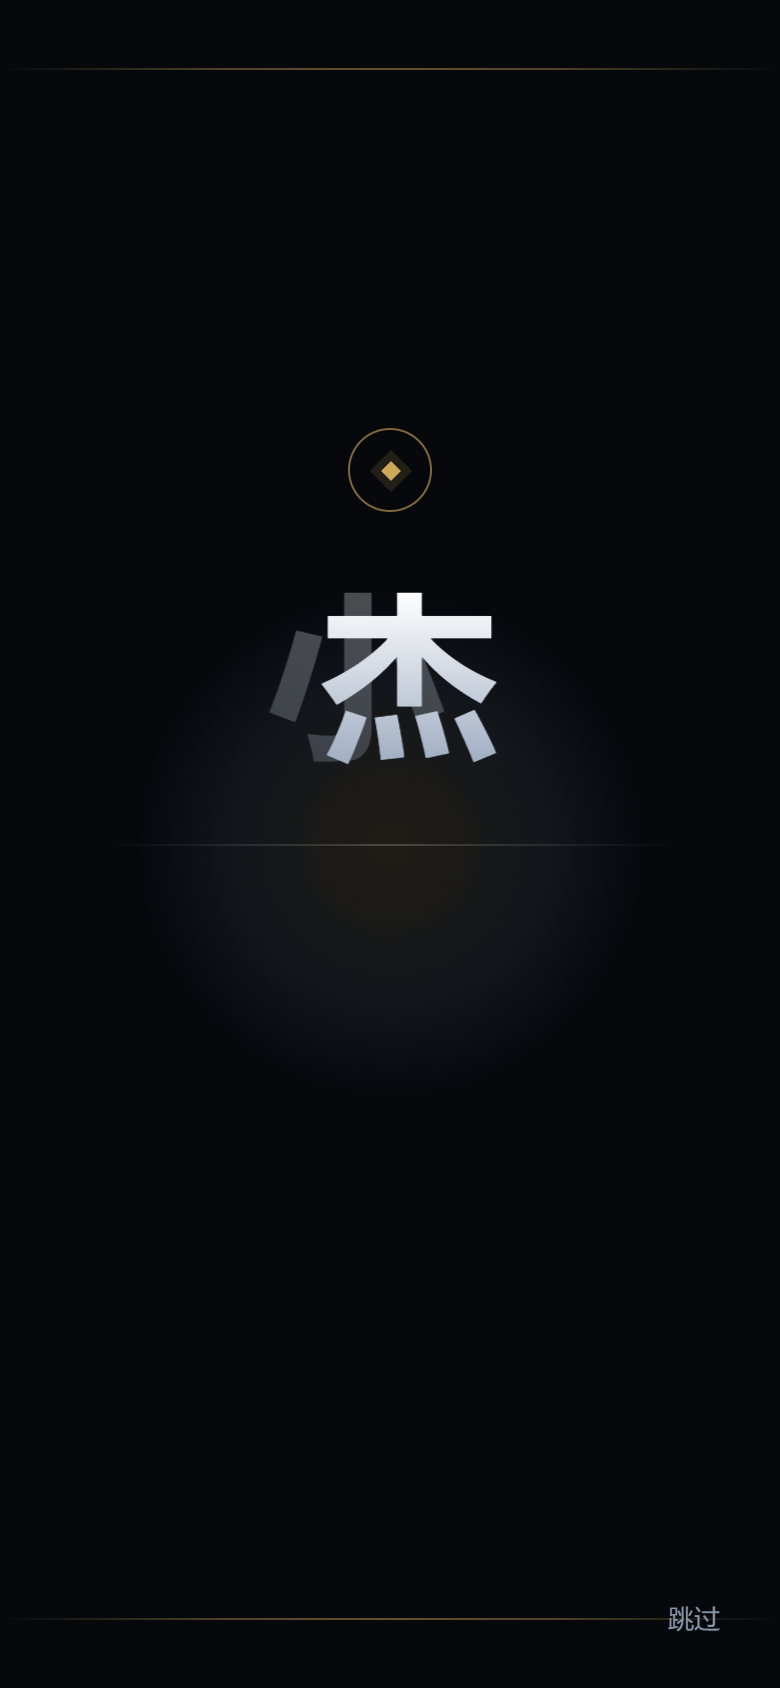
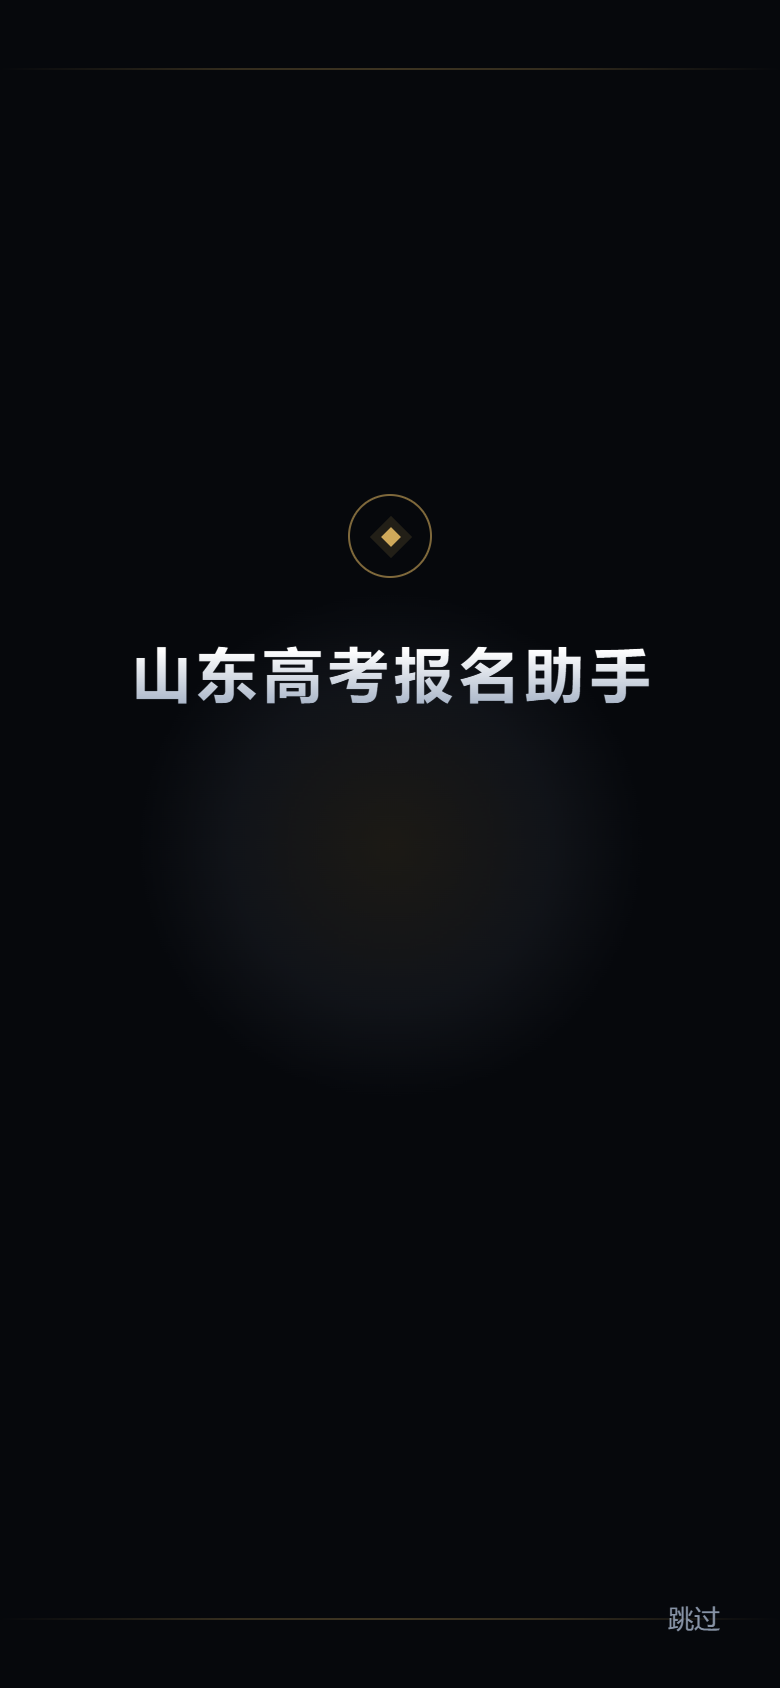
开场动画 V6（低调权威版）：撤下大字「小杰」与模糊聚焦/扫光等张扬元素，改为主标题=山东高考报名助手 + 副标题=「小杰 · 技术支持」小字署名；克制的级联节奏（约 2.7s），全程纯 transform/opacity；E2E 47/47

Changed region(s): [[0.1538, 0.2464, 0.8308, 0.4621]]

diff --git a/index.html b/index.html
@@ -311,20 +311,17 @@ footer a{color:var(--blue);text-decoration:none}
 body.xj-lock{overflow:hidden}
 .xj-stage{position:relative;width:100%;height:100%;display:grid;place-items:center;padding-top:env(safe-area-inset-top,0px);padding-bottom:env(safe-area-inset-bottom,0px)}
 .xj-glow{position:absolute;left:50%;top:50%;width:90vmin;height:90vmin;margin:-45vmin 0 0 -45vmin;border-radius:50%;background:radial-gradient(closest-side,rgba(207,169,90,.13),rgba(148,158,178,.09) 45%,rgba(148,158,178,0) 72%);opacity:0;will-change:opacity;pointer-events:none}
-.xj-light{position:absolute;left:50%;top:50%;width:min(74vw,470px);height:1px;margin-left:calc(min(74vw,470px) / -2);background:linear-gradient(90deg,transparent,rgba(255,255,255,.85),transparent);opacity:0;will-change:transform,opacity;pointer-events:none}
-/* V3：权威元素 —— 金印徽记 / 上下鎏金界线 / 标题扫光 */
+/* V3：权威元素 —— 金印徽记 / 上下鎏金界线 */
 .xj-crest{width:42px;height:42px;margin-bottom:30px;border:1px solid rgba(207,169,90,.6);border-radius:50%;display:grid;place-items:center;opacity:0;will-change:transform,opacity;pointer-events:none}
 .xj-crest i{display:block;width:7px;height:7px;background:var(--xj-gold);transform:rotate(45deg);box-shadow:0 0 0 4px rgba(207,169,90,.14)}
 .xj-beam{position:absolute;left:0;right:0;height:1px;background:linear-gradient(90deg,transparent,rgba(207,169,90,.75) 30%,rgba(207,169,90,.9) 50%,rgba(207,169,90,.75) 70%,transparent);transform:scaleX(0);opacity:0;will-change:transform,opacity;pointer-events:none}
 .xj-beam.t{top:calc(env(safe-area-inset-top,0px) + 34px)}
 .xj-beam.b{bottom:calc(env(safe-area-inset-bottom,0px) + 34px)}
 .xj-lockup{position:relative;display:flex;flex-direction:column;align-items:center;padding:0 20px;max-width:100vw}
-.xj-title{position:relative;display:flex;font-size:clamp(72px,23vw,150px);font-weight:800;line-height:1.08;letter-spacing:.08em;margin:0}
-.xj-g{display:block;opacity:0;color:transparent;background:linear-gradient(180deg,#fff 10%,#9fadc2 100%);-webkit-background-clip:text;background-clip:text;will-change:transform,opacity,filter}
-.xj-sheen{position:absolute;inset:0;overflow:hidden;pointer-events:none}
-.xj-bar{position:absolute;top:-10%;bottom:-10%;left:0;width:34%;opacity:0;background:linear-gradient(100deg,transparent,rgba(255,255,255,.9),transparent);mix-blend-mode:overlay;will-change:transform,opacity}
+.xj-title{position:relative;display:flex;justify-content:center;font-size:clamp(26px,7.5vw,60px);font-weight:800;line-height:1.25;letter-spacing:.12em;margin:0;opacity:0;will-change:transform,opacity}
+.xj-title span{color:transparent;background:linear-gradient(180deg,#fff 18%,#9fadc2 100%);-webkit-background-clip:text;background-clip:text;margin-right:-.12em}
 .xj-rule{width:min(42vw,190px);height:1px;margin:26px 0 22px;background:linear-gradient(90deg,transparent,var(--xj-gold),transparent);transform:scaleX(0);opacity:0;will-change:transform,opacity}
-.xj-sub{font-size:clamp(14px,4vw,18px);font-weight:500;letter-spacing:.5em;margin-right:-.5em;color:#b2bccb;opacity:0;clip-path:inset(0 50% 0 50%);will-change:transform,opacity}
+.xj-sub{font-size:clamp(12px,2vw,15px);font-weight:500;letter-spacing:.42em;margin-right:-.42em;color:#8b96a8;opacity:0;will-change:transform,opacity}
 .xj-cta{margin-top:44px;display:flex;flex-direction:column;align-items:center;gap:12px;opacity:0;will-change:transform,opacity}
 .xj-btn{display:inline-flex;align-items:center;justify-content:center;height:54px;min-width:220px;padding:0 38px;border:0;border-radius:27px;background:var(--xj-bone);color:var(--xj-ink);font-size:17px;font-weight:600;font-family:inherit;text-decoration:none;cursor:pointer;transition:transform .18s cubic-bezier(.2,.8,.2,1);-webkit-tap-highlight-color:transparent}
 .xj-btn:active{transform:scale(.96)}
@@ -342,23 +339,22 @@ body.xj-lock{overflow:hidden}
 </head>
 <body>
 
-<!-- 开场动画 V5（聚焦→展开编排）：「杰」单字居中带模糊聚焦登场 → 展开成「小杰」→ 副标题揭幕（全部类名 xj- 前缀；「开始报名」= 进入主界面） -->
-<div class="xj-splash" id="xjSplash" role="dialog" aria-label="小杰 · 山东高考报名助手 · 由小杰提供技术支持">
+<!-- 开场动画 V6（低调权威版）：金印徽记 + 项目主标题 + 「小杰 · 技术支持」小字署名，克制的级联节奏（全部类名 xj- 前缀；「开始报名」= 进入主界面） -->
+<div class="xj-splash" id="xjSplash" role="dialog" aria-label="山东高考报名助手 · 小杰提供技术支持">
   <main class="xj-stage">
     <div class="xj-glow"></div>
-    <div class="xj-light"></div>
     <div class="xj-beam t" aria-hidden="true"></div>
     <div class="xj-beam b" aria-hidden="true"></div>
     <div class="xj-lockup">
       <div class="xj-crest" aria-hidden="true"><i></i></div>
-      <h1 class="xj-title" aria-label="小杰"><span class="xj-g xj-g1" aria-hidden="true">小</span><span class="xj-g xj-g2" aria-hidden="true">杰</span><span class="xj-sheen" aria-hidden="true"><span class="xj-bar"></span></span></h1>
+      <h1 class="xj-title" aria-label="山东高考报名助手"><span aria-hidden="true">山东高考报名助手</span></h1>
       <div class="xj-rule"></div>
-      <div class="xj-sub">山东高考报名助手</div>
+      <div class="xj-sub">小杰 · 技术支持</div>
       <div class="xj-cta">
         <button class="xj-btn" id="xjEnter" type="button">开始报名</button>
         <button class="xj-link xj-replay" type="button">重播开场动画</button>
       </div>
-      <div class="xj-note">由小杰提供技术支持 · 资料仅保存在本机 · 非官方工具</div>
+      <div class="xj-note">资料仅保存在本机 · 非官方工具</div>
     </div>
   </main>
   <button class="xj-link xj-skip" type="button">跳过</button>
@@ -369,15 +365,13 @@ body.xj-lock{overflow:hidden}
   var q = function (s) { return document.querySelector(s); };
   var splash = q('#xjSplash');
   if (!splash) return;
-  var glow = q('.xj-glow'), light = q('.xj-light'), rule = q('.xj-rule'),
+  var glow = q('.xj-glow'), title = q('.xj-title'), rule = q('.xj-rule'),
       sub = q('.xj-sub'), cta = q('.xj-cta'), note = q('.xj-note'), skip = q('.xj-skip'),
       enter = q('#xjEnter'), replay = q('.xj-replay'),
-      crest = q('.xj-crest'), g1 = q('.xj-g1'), g2 = q('.xj-g2'), bar = q('.xj-bar'),
-      beamT = q('.xj-beam.t'), beamB = q('.xj-beam.b');
+      crest = q('.xj-crest'), beamT = q('.xj-beam.t'), beamB = q('.xj-beam.b');
   var KEY = 'xj-splash-seen';
   var reduce = matchMedia('(prefers-reduced-motion: reduce)').matches;
   var E1 = 'cubic-bezier(.16,1,.3,1)';
-  var E2 = 'cubic-bezier(.22,1,.36,1)';
   var anims = [];
 
   function lock(on) { document.body.classList[on ? 'add' : 'remove']('xj-lock'); }
@@ -408,65 +402,40 @@ body.xj-lock{overflow:hidden}
     anims.forEach(function (x) { try { x.cancel(); } catch (e) {} }); anims = [];
     skip.style.display = '';
     if (reduce) {
-      [glow, g1, g2, sub, cta, note, crest].forEach(function (el) { a(el, [{ opacity: 0 }, { opacity: 1 }], { duration: 400 }); });
-      [rule, light, beamT, beamB].forEach(function (el) { a(el, [{ opacity: .8, transform: 'scaleX(1)' }], { duration: 1 }); });
-      a(sub, [{ opacity: 1, clipPath: 'inset(0 0 0 0)' }], { duration: 1 });
-      a(bar, [{ opacity: 0 }], { duration: 1 });
+      [glow, title, sub, cta, note, crest].forEach(function (el) { a(el, [{ opacity: 0 }, { opacity: 1 }], { duration: 400 }); });
+      [rule, beamT, beamB].forEach(function (el) { a(el, [{ opacity: .5, transform: 'scaleX(1)' }], { duration: 1 }); });
       skip.style.display = 'none'; return;
     }
-    /* V5 聚焦→展开编排（有限动画总时长约 3.8s，冲击力优先）：
-       界线/光晕(0s) → 「杰」单字居中·模糊聚焦登场(0.25s) → 徽记(0.35s) → 「杰」滑向左位+「小」从中心浮现(1.4s)
-       → 金线(2.1s) → 副标题揭幕+鎏金扫光(2.3s) → CTA(3.05s) → 底注(3.25s)；光晕与 CTA 呼吸循环（仅 transform） */
-    /* 测量最终位置：让「杰」先居中单独出现，再展开成「小杰」 */
-    var r1 = g1.getBoundingClientRect(), r2 = g2.getBoundingClientRect();
-    var cx = (r1.left + r2.right) / 2;
-    var d2 = cx - (r2.left + r2.width / 2);   /* 杰 → 屏幕中心 */
-    var d1 = cx - (r1.left + r1.width / 2);   /* 小 → 屏幕中心（藏在杰后面） */
+    /* V6 低调权威节奏（有限动画总时长约 2.7s，全程仅 transform/opacity 合成器动画）：
+       界线/光晕(0s) → 徽记(0.3s) → 主标题轻浮起(0.5s) → 金线(1.2s) → 署名(1.45s) → CTA(1.9s) → 底注(2.1s)；
+       光晕与 CTA 之后进入极缓呼吸循环 */
     a(beamT, [
       { opacity: 0, transform: 'scaleX(0)' },
-      { opacity: .9, transform: 'scaleX(1)', offset: .7 },
-      { opacity: .5, transform: 'scaleX(1)' }
-    ], { duration: 900, easing: 'ease-out' });
+      { opacity: .45, transform: 'scaleX(1)', offset: .7 },
+      { opacity: .3, transform: 'scaleX(1)' }
+    ], { duration: 1000, easing: 'ease-out' });
     a(beamB, [
       { opacity: 0, transform: 'scaleX(0)' },
-      { opacity: .9, transform: 'scaleX(1)', offset: .7 },
-      { opacity: .5, transform: 'scaleX(1)' }
-    ], { duration: 900, delay: 120, easing: 'ease-out' });
-    a(glow, [{ opacity: 0 }, { opacity: 1 }], { duration: 1600, easing: 'ease-out' });
-    a(glow, [{ transform: 'scale(1)' }, { transform: 'scale(1.05)' }, { transform: 'scale(1)' }],
-      { duration: 6000, delay: 1600, iterations: Infinity, easing: 'ease-in-out' });
-    a(light, [
-      { opacity: 0, transform: 'scaleX(0)' },
-      { opacity: .95, transform: 'scaleX(1)', offset: .35 },
-      { opacity: .22, transform: 'scaleX(1)' }
-    ], { duration: 1300, delay: 150, easing: 'ease-out' });
-    a(g2, [
-      { opacity: 0, transform: 'translateX(' + d2 + 'px) scale(1.14)', filter: 'blur(14px)' },
-      { opacity: 1, transform: 'translateX(' + d2 + 'px) scale(1)', filter: 'blur(0px)' }
-    ], { duration: 900, delay: 250, easing: E1 });
+      { opacity: .45, transform: 'scaleX(1)', offset: .7 },
+      { opacity: .3, transform: 'scaleX(1)' }
+    ], { duration: 1000, delay: 120, easing: 'ease-out' });
+    a(glow, [{ opacity: 0 }, { opacity: 1 }], { duration: 1500, easing: 'ease-out' });
+    a(glow, [{ transform: 'scale(1)' }, { transform: 'scale(1.04)' }, { transform: 'scale(1)' }],
+      { duration: 6000, delay: 1500, iterations: Infinity, easing: 'ease-in-out' });
     a(crest, [
-      { opacity: 0, transform: 'scale(.5) rotate(-24deg)' },
-      { opacity: 1, transform: 'scale(1) rotate(0deg)' }
-    ], { duration: 650, delay: 400, easing: E1 });
-    a(g2, [{ transform: 'translateX(' + d2 + 'px)' }, { transform: 'translateX(0)' }], { duration: 1000, delay: 1400, easing: E2 });
-    a(g1, [
-      { opacity: 0, transform: 'translateX(' + d1 + 'px)' },
-      { opacity: 1, transform: 'translateX(0)' }
-    ], { duration: 1000, delay: 1400, easing: E2 });
-    a(rule, [{ opacity: 0, transform: 'scaleX(0)' }, { opacity: 1, transform: 'scaleX(1)' }], { duration: 700, delay: 2100, easing: E1 });
-    a(sub, [
-      { opacity: 0, clipPath: 'inset(0 50% 0 50%)', transform: 'translateY(6px)' },
-      { opacity: 1, clipPath: 'inset(0 0 0 0)', transform: 'translateY(0)' }
-    ], { duration: 900, delay: 2300, easing: E1 });
-    a(bar, [
-      { opacity: 0, transform: 'translateX(-120%)' },
-      { opacity: 1, offset: .5 },
-      { opacity: 0, transform: 'translateX(320%)' }
-    ], { duration: 1200, delay: 2350, easing: 'ease-in-out' });
-    var last = a(cta, [{ opacity: 0, transform: 'translateY(12px)' }, { opacity: 1, transform: 'translateY(0)' }], { duration: 650, delay: 3050, easing: E1 });
-    a(cta, [{ transform: 'scale(1)' }, { transform: 'scale(1.014)' }, { transform: 'scale(1)' }],
-      { duration: 5000, delay: 3750, iterations: Infinity, easing: 'ease-in-out' });
-    a(note, [{ opacity: 0 }, { opacity: 1 }], { duration: 550, delay: 3250, easing: 'ease-out' });
+      { opacity: 0, transform: 'scale(.72)' },
+      { opacity: 1, transform: 'scale(1)' }
+    ], { duration: 600, delay: 300, easing: E1 });
+    a(title, [
+      { opacity: 0, transform: 'translateY(10px)' },
+      { opacity: 1, transform: 'translateY(0)' }
+    ], { duration: 700, delay: 500, easing: E1 });
+    a(rule, [{ opacity: 0, transform: 'scaleX(0)' }, { opacity: 1, transform: 'scaleX(1)' }], { duration: 700, delay: 1200, easing: E1 });
+    a(sub, [{ opacity: 0, transform: 'translateY(6px)' }, { opacity: 1, transform: 'translateY(0)' }], { duration: 650, delay: 1450, easing: E1 });
+    var last = a(cta, [{ opacity: 0, transform: 'translateY(10px)' }, { opacity: 1, transform: 'translateY(0)' }], { duration: 650, delay: 1900, easing: E1 });
+    a(cta, [{ transform: 'scale(1)' }, { transform: 'scale(1.012)' }, { transform: 'scale(1)' }],
+      { duration: 5000, delay: 2600, iterations: Infinity, easing: 'ease-in-out' });
+    a(note, [{ opacity: 0 }, { opacity: 1 }], { duration: 550, delay: 2100, easing: 'ease-out' });
     last.finished.then(function () { skip.style.display = 'none'; }).catch(function () {});
   }
 

diff --git a/test/e2e.js b/test/e2e.js
@@ -64,12 +64,11 @@ function computeCheck(first17) {
       if (maxEnd > 4000) throw new Error('总时长 ' + Math.round(maxEnd) + 'ms 超出 4s');
     });
   });
-  await t('文案权威且诚实：主标题为「小杰」、副标题为项目名、底注含技术支持方与「非官方」，无「官方指定/授权」类违规字样', () => {
+  await t('文案权威且诚实：主标题为项目名、副标题为「小杰 · 技术支持」、底注含「非官方」，无「官方指定/授权」类违规字样', () => {
     return page.evaluate(() => {
       const s = document.getElementById('xjSplash');
-      if (document.querySelector('.xj-title').getAttribute('aria-label').indexOf('小杰') < 0) throw new Error('主标题缺少「小杰」');
-      if (document.querySelector('.xj-sub').textContent.indexOf('山东高考报名助手') < 0) throw new Error('副标题缺少项目名');
-      if (document.querySelector('.xj-note').textContent.indexOf('小杰') < 0) throw new Error('底注缺少技术支持方');
+      if (document.querySelector('.xj-title').getAttribute('aria-label').indexOf('山东高考报名助手') < 0) throw new Error('主标题缺少项目名');
+      if (document.querySelector('.xj-sub').textContent.indexOf('小杰') < 0) throw new Error('副标题缺少技术支持方');
       if (document.querySelector('.xj-note').textContent.indexOf('非官方') < 0) throw new Error('底注缺少非官方声明');
       if (/官方指定|授权|教育厅指定/.test(s.textContent)) throw new Error('出现官方感违规文案');
     });

diff --git a/test/perf-v3.js b/test/perf-v3.js
@@ -10,7 +10,7 @@ const BASE = 'http://127.0.0.1:8971';
   await p1.evaluate(() => {
     window.__frames = 0; window.__long = 0; window.__t0 = performance.now(); window.__last = 0;
     const loop = (t) => { window.__frames++; if (window.__last && t - window.__last > 32) window.__long++; window.__last = t;
-      if (performance.now() - window.__t0 < 4200) requestAnimationFrame(loop); };
+      if (performance.now() - window.__t0 < 3000) requestAnimationFrame(loop); };
     requestAnimationFrame(loop);
   });
   await p1.waitForTimeout(3400);
@@ -31,7 +31,7 @@ const BASE = 'http://127.0.0.1:8971';
   /* 第二轮：全新会话截图关键帧 */
   const p2 = await browser.newPage({ viewport: { width: 390, height: 844 }, deviceScaleFactor: 2 });
   await p2.goto(BASE + '/', { waitUntil: 'domcontentloaded' });
-  const shots = [[800, 'v3-beams'], [1100, 'v3-crest-title'], [1900, 'v3-sheen'], [2900, 'v3-sub'], [3950, 'v3-cta']];
+  const shots = [[400, 'v3-beams'], [700, 'v3-crest-title'], [1100, 'v3-sheen'], [1800, 'v3-sub'], [2900, 'v3-cta']];
   let prev = 0;
   for (const [ms, name] of shots) {
     await p2.waitForTimeout(ms - prev); prev = ms;
